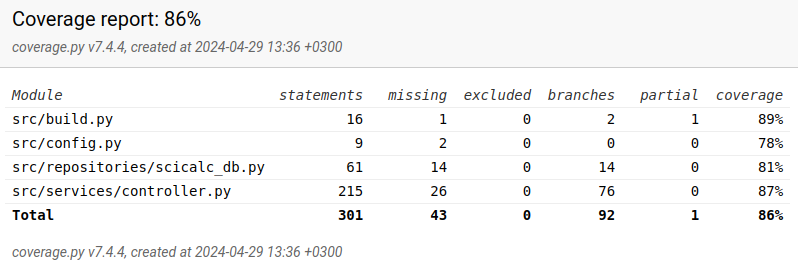
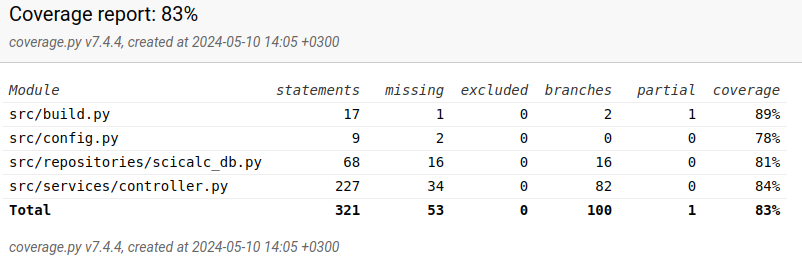
Add delete history by name

diff --git a/src/ui/scicalc_view.py b/src/ui/scicalc_view.py
@@ -185,7 +185,15 @@ class SciCalcView:
         )
         self._database_menu.add_command(
             label="Load history",
-            command=self._controller.history_db_load
+            command=lambda: self.create_combobox(
+                self._controller.database.get_saved_names(), 'load'
+            )
+        )
+        self._database_menu.add_command(
+            label="Delete history",
+            command=lambda: self.create_combobox(
+                self._controller.database.get_saved_names(), 'delete'
+            )
         )
         self._database_menu.add_command(
             label="Clear database",
@@ -229,25 +237,43 @@ class SciCalcView:
         self._controller.press(button_text)
         self._entry_field.focus_set()
 
-    def create_combobox(self, saved_names):
+    def create_combobox(self, saved_names, action):
         """Creates a popup with a combobox for selecting a history entry.
 
         Args:
             saved_names (list): A list of saved history names.
+            action (str): The action to perform ('load' or 'delete').
         """
         popup = tk.Toplevel(self._root)
-        popup.title("Load History")
+        popup.title(f"{action.capitalize()} History")
         label = ttk.Label(popup, text="Select a history from the list:",
                           font=('Arial', 14), background='lightgrey')
         label.pack(padx=10, pady=10)
         combobox = ttk.Combobox(popup, state="readonly", values=saved_names, font=('Arial', 14))
         combobox.pack(padx=10, pady=10)
+        button_text = "Load" if action == 'load' else "Delete"
         button = ttk.Button(
-            popup, text="Load",
-            command=lambda: self._load_from_combobox(combobox, popup),
+            popup, text=button_text,
+            command=lambda: self._perform_action(combobox, popup, action),
             style="Popup.TButton"
         )
         button.pack(pady=10)
+
+    def _perform_action(self, combobox, popup, action):
+        """Performs the selected action (load or delete) for the chosen history.
+
+        Args:
+            combobox (ttk.Combobox): The combobox widget containing saved history names.
+            popup (tk.Toplevel): The popup window containing the combobox.
+            action (str): The action to perform ('load' or 'delete').
+        """
+        selected_name = combobox.get()
+        if selected_name:
+            popup.destroy()
+            if action == 'load':
+                self._controller.load_history_from_db(selected_name)
+            elif action == 'delete':
+                self._controller.delete_history_from_db(selected_name)
 
     def _load_from_combobox(self, combobox, popup):
         """Loads the selected history from the combobox.
@@ -261,18 +287,23 @@ class SciCalcView:
             popup.destroy()
             self._controller.load_history_from_db(selected_name)
 
-    def show_message(self, message, is_error=True):
+    def show_message(self, message, message_type='error'):
         """Show a message box with an error message or confirmation dialog.
+
         Args:
             message (str): The message to display.
+            message_type (str): The type of message ('error', 'confirm', or 'info').
         """
-        if is_error:
+        if message_type == 'error':
             messagebox.showerror("Error", message)
-        else:
+        elif message_type == 'confirm':
             return messagebox.askokcancel("Confirmation", message)
+        elif message_type == 'info':
+            messagebox.showinfo("Information", message)
 
     def get_user_input(self, title, prompt):
         """Show a dialog to get input from the user.
+
         Args:
             title (str): The title of the input dialog.
             prompt (str): The prompt message.

diff --git a/src/services/controller.py b/src/services/controller.py
@@ -407,6 +407,24 @@ class SciCalcController:
             self.view.update_history_view(self.history)
             self.database.close_connection()
 
+    def delete_history_from_db(self, name):
+        """Delete a saved history from the database.
+
+        Args:
+            name (str): The name of the saved history to delete.
+        """
+        if name:
+            confirmation = self.view.show_message(
+                f"Are you sure you want to delete '{name}'?", message_type='confirm'
+            )
+            if confirmation:
+                self.database.connect()
+                self.database.delete_by_name(name)
+                self.database.close_connection()
+                self.view.show_message(
+                    f"History '{name}' deleted successfully.", message_type='info'
+                )
+
     def history_db_save(self):
         """Save the current history to the database."""
         if self.history:
@@ -418,6 +436,9 @@ class SciCalcController:
                 for equation, result in self.history:
                     self.database.save_history(name, equation, result)
                 self.database.close_connection()
+                self.view.show_message(
+                    f"History '{name}' saved successfully.", message_type='info'
+                )
 
     def history_db_load(self):
         """Load history from the database."""
@@ -428,12 +449,15 @@ class SciCalcController:
     def history_db_clear(self):
         """Clear the database."""
         confirmation = self.view.show_message(
-            "Are you sure you want to clear the database?", False
+            "Are you sure you want to clear the database?", message_type='confirm'
         )
         if confirmation:
             self.database.connect()
             self.database.clear_history()
             self.database.close_connection()
+            self.view.show_message(
+                f"Database cleared.", message_type='info'
+            )
             self.history = []
             self.history_index = -1
             self.view.update_history_view(self.history)

diff --git a/src/repositories/scicalc_db.py b/src/repositories/scicalc_db.py
@@ -103,6 +103,23 @@ class SciCalcDatabase:
             self.view.show_message("Error loading equations from the database.")
             return []
 
+    def delete_by_name(self, name):
+            """
+            Delete history entries from the 'Equations' table based on the provided name.
+            
+            Args:
+                name (str): The name associated with the history entry to be deleted.
+            """
+            try:
+                with self.db:
+                    self.db.execute(
+                        'DELETE FROM Equations WHERE name = ?',
+                        (name,)
+                    )
+                    self.db.commit()
+            except sqlite3.Error:
+                self.view.show_message("Error deleting history from the database.")
+
     def clear_history(self):
         """Clear all records from the 'Equations' table."""
         try:

diff --git a/src/tests/db_test.py b/src/tests/db_test.py
@@ -55,6 +55,17 @@ class TestSciCalcDatabase(unittest.TestCase):
         loaded_history = self.database.load_history(name)
         self.assertEqual(loaded_history, equations)
 
+    def test_delete_by_name(self):
+        name = 'test'
+        equation = '1 + 2'
+        result = '3'
+        self.database.save_history(name, equation, result)
+        self.database.delete_by_name(name)
+        cursor = self.database.db.cursor()
+        cursor.execute("SELECT * FROM Equations WHERE name=?", (name,))
+        deleted_history = cursor.fetchone()
+        self.assertIsNone(deleted_history)
+
     def test_clear_history(self):
         self.database.save_history('test', '1 * 4', '4')
         self.database.clear_history()

diff --git a/dokumentaatio/testaus.md b/dokumentaatio/testaus.md
@@ -12,11 +12,11 @@ Suurimmalle osalle metodeista on kirjoitettu testit - lähinnä `SciCalcDatabase
 
 ### Repositorio-luokka
 
-Repositorio-luokka `SciCalcDatabase`-luokka testataan TestSciCalcDatabase-testiluokalla. Testiluokassa alustetaan SQLite-tietokanta in-memory -tilassa eli tietokanta on vain väliaikainen ja asetetaan jokaisen testin alussa. Testien alustuksessa luodaan `SciCalcDatabase`-instanssi ja kytketään se tietokantaan. Testiluokassa testataan `SciCalcDatabase`-luokan toimintaa eri skenaarioissa. Testien ulkopuolelle jäävät lähinnä poikkeuksia aiheuttavat tilanteet.
+Repositorio-luokka `SciCalcDatabase` testataan TestSciCalcDatabase-testiluokalla. Testiluokassa alustetaan SQLite-tietokanta in-memory -tilassa eli tietokanta on vain väliaikainen ja asetetaan jokaisen testin alussa. Testien alustuksessa luodaan `SciCalcDatabase`-instanssi ja kytketään se tietokantaan. Testiluokassa testataan `SciCalcDatabase`-luokan toimintaa eri skenaarioissa. Testien ulkopuolelle jäävät lähinnä poikkeuksia aiheuttavat tilanteet.
 
 ### Testauskattavuus
 
-Käyttöliittymäkerrosta lukuunottamatta sovelluksen testauksen haarautumakattavuus on 86%. Testaamatta jää muutama `SciCalcDatabase`-luokan kanssa yhteydessä oleva metodi `SciCalcController`-luokasta sekä `SciCalcDatabase`-luokan muutamat poikkeuksia aiheuttavat tilanteet.
+Käyttöliittymäkerrosta lukuunottamatta sovelluksen testauksen haarautumakattavuus on 83%. Testaamatta jää muutama `SciCalcDatabase`-luokan kanssa yhteydessä oleva metodi `SciCalcController`-luokasta sekä `SciCalcDatabase`-luokan muutamat poikkeuksia aiheuttavat tilanteet.
 
 ![](./kuvat/testikattavuus.png)
 

diff --git a/dokumentaatio/kayttoohje.md b/dokumentaatio/kayttoohje.md
@@ -67,7 +67,8 @@ ja käytetään trigonometrisia funktioita.
 - Virheen sattuessa tarkista syöte ja yritä uudelleen
 
 8. Tietokanta
-- Laskuhistorian voi ladata ja tallentaa `Database`-valikosta
+- Laskuhistorian voi ladata, tallentaa ja poistaa `Database`-valikosta
 - Tallennettaessa valitaan `Save history` ja annetaan tallennettavalle historialle nimi
 - Ladattaessa valitaan `Load history` ja valitaan haluttu historia listasta
+- Historiatietoja poistettaessa valitaan `Delete history` ja valitaan poistettavat tiedot listasta
 - Tietokannan sisällön voi poistaa valitsemalla valikosta `Clear database`

diff --git a/dokumentaatio/vaatimusmaarittely.md b/dokumentaatio/vaatimusmaarittely.md
@@ -30,6 +30,7 @@ Sovelluksen toteutettu käyttöliittymä on seuraava:
 - Käyttäjä voi valita lasketaanko trigonometriset funktiot radiaaneina vai asteina - tehty
 - Suoritetut laskut kertyvät yläosassa olevalle näyttöalueelle - tehty
 - Laskutoimitushistorian voi tallentaa tietokantaan ja ladata sieltä - tehty
+- Laskutoimitushistorioita voi poistaa tietokannasta - tehty
 - Käyttäjä voi muuntaa lasketun tuloksen murtoluvuksi - tehty
 
 ## Jatkokehitysideoita

diff --git a/dokumentaatio/tuntikirjanpito.md b/dokumentaatio/tuntikirjanpito.md
@@ -22,4 +22,5 @@
 | 25.4. | 5    | koodin restrukturointi, dokumentaatio |
 | 29.4. | 3    | build, testejä, dokumentaatiota |
 | 3.5.  | 2    | testien restrukturointi, pikkufiksejä |
-| **Yht.** | **83** | |
+| 10.5. | 2    | historian poisto nimellä tietokannasta |
+| **Yht.** | **85** | |

diff --git a/dokumentaatio/changelog.md b/dokumentaatio/changelog.md
@@ -43,4 +43,5 @@
 - Build
 - Testausdokumentti
 - Dokumentoinnin viimeistely
-- Käyttöliittymä hienommaksi (ehkä)
+- Tietokannan virhetilanteista virheikkuna käyttäjälle
+- Historian poisto nimellä lisätty
